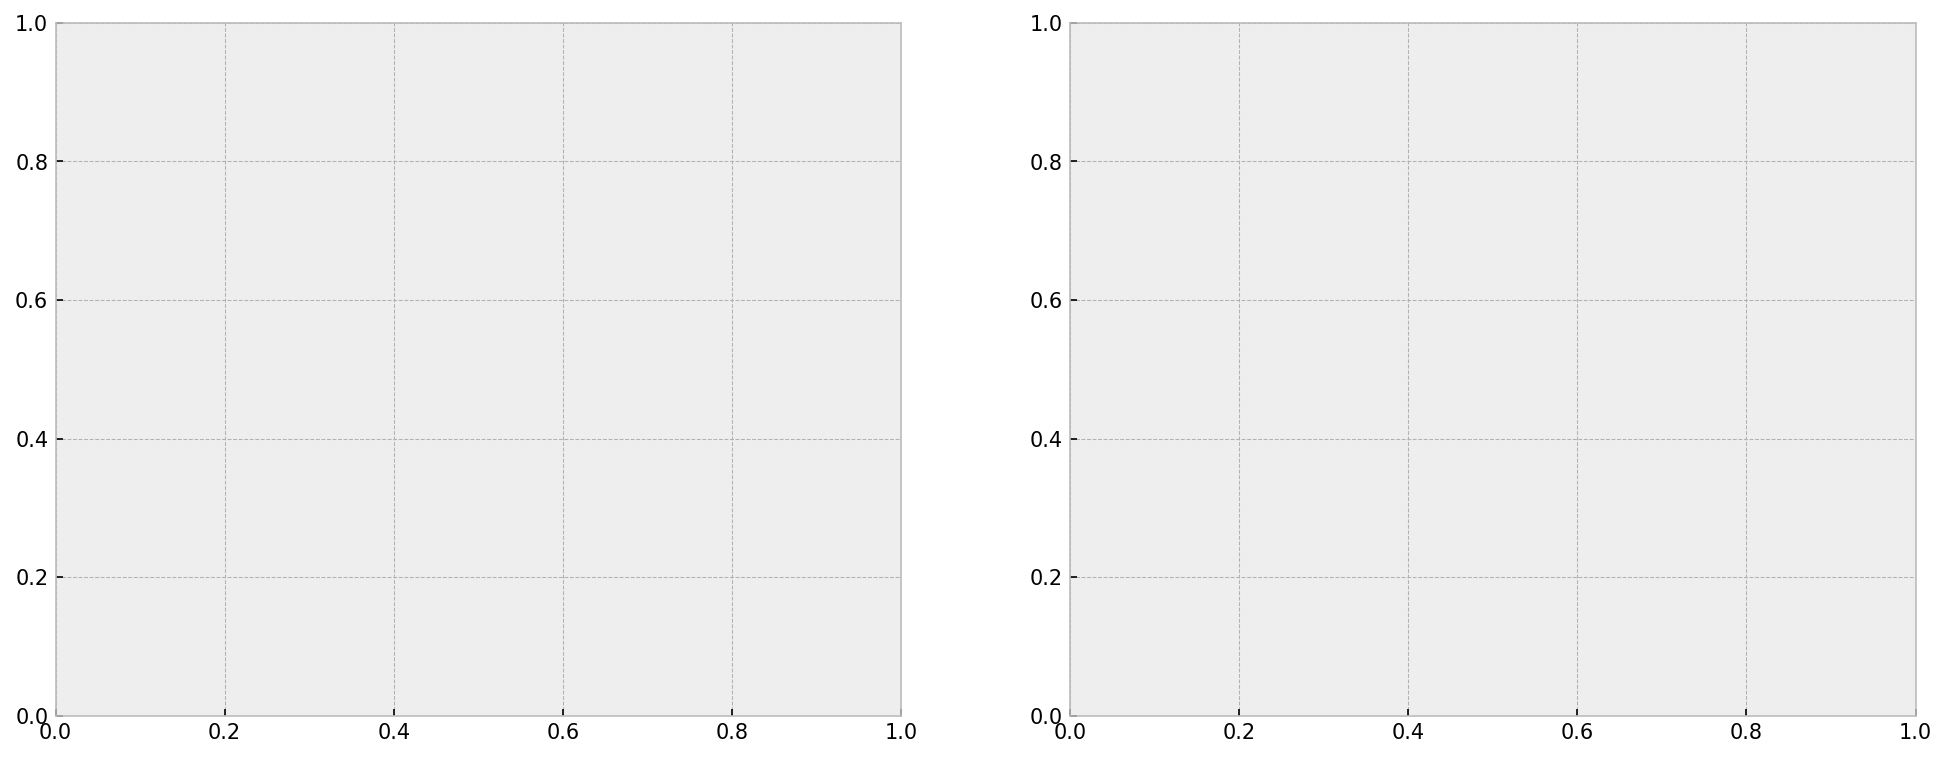
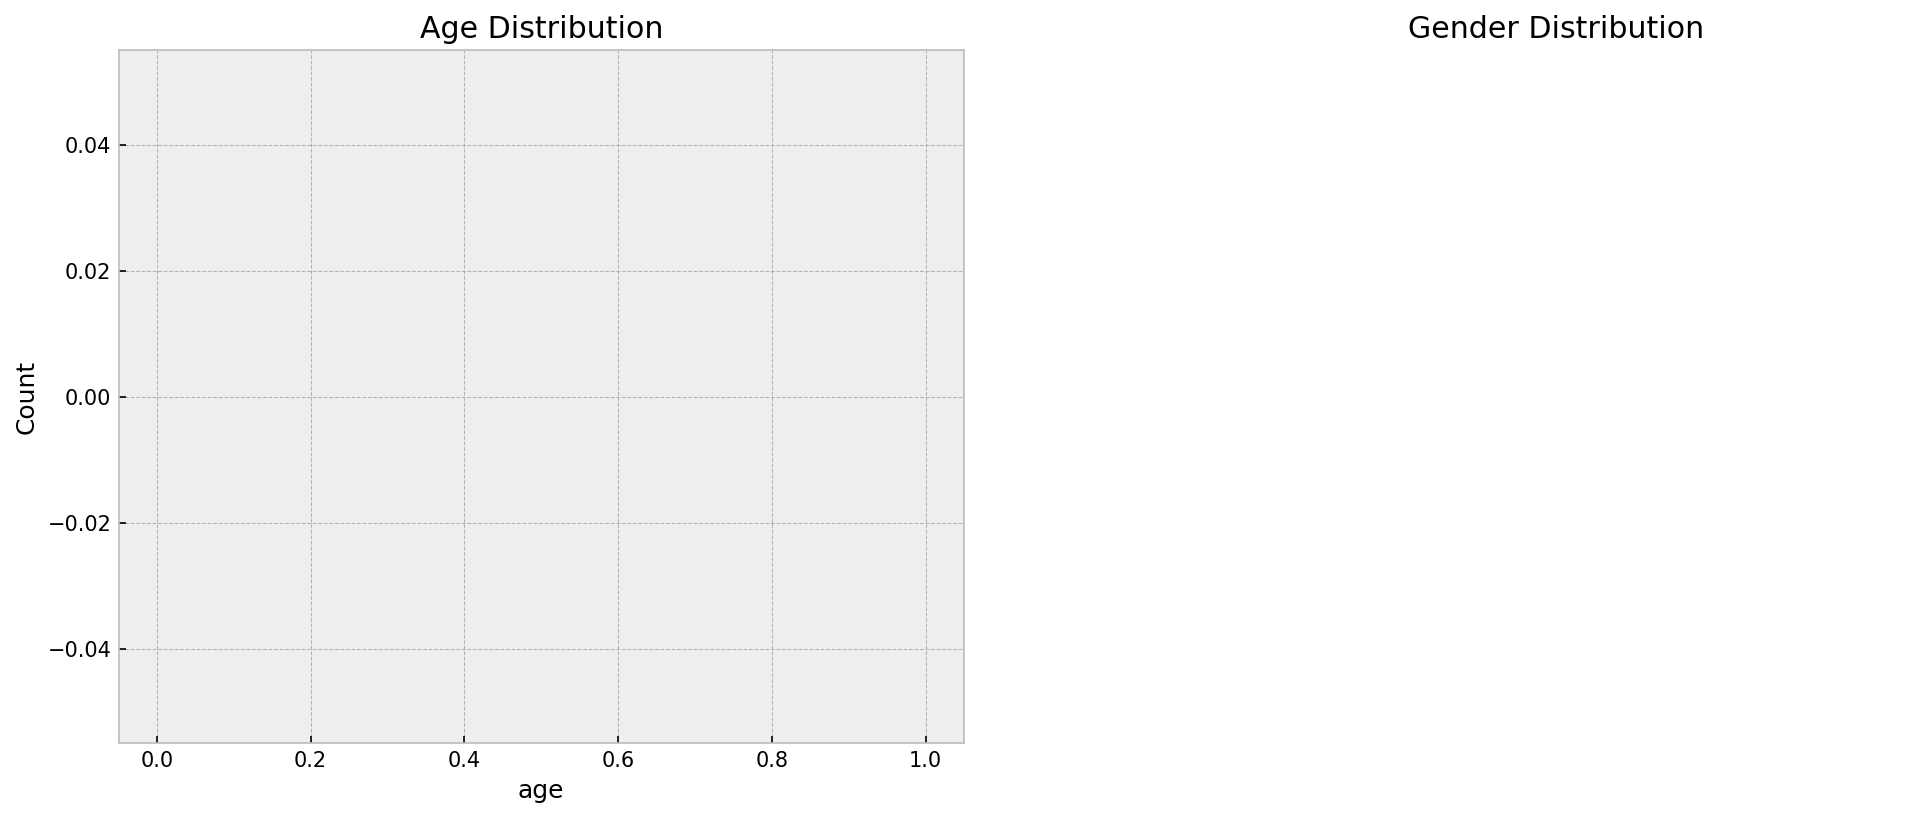
docs: enhance README with deep technical insights and fix SynPUF plot generation

diff --git a/save_eda_plots.py b/save_eda_plots.py
@@ -33,7 +33,7 @@ def save_fig(name):
     plt.close()
     print(f"Saved: {name}")
 
-def load_synpuf_lzo(filename, max_blocks=100):
+def load_synpuf_lzo(filename, max_blocks=100, names=None):
     if lzo is None: return pd.DataFrame()
     path = os.path.join(synpuf_path, filename)
     if not os.path.exists(path): return pd.DataFrame()
@@ -60,7 +60,10 @@ def load_synpuf_lzo(filename, max_blocks=100):
                 try: decompressed = lzo.decompress(comp_data, False, u_size); all_data += decompressed
                 except: continue
             else: all_data += comp_data
-        try: return pd.read_csv(io.BytesIO(all_data), sep=',', low_memory=False)
+        try: 
+            if names:
+                return pd.read_csv(io.BytesIO(all_data), sep=',', names=names, low_memory=False)
+            return pd.read_csv(io.BytesIO(all_data), sep=',', low_memory=False)
         except: return pd.DataFrame()
 
 # --- 1. OMOP ---
@@ -73,15 +76,15 @@ def gen_omop_plots():
         fig, axes = plt.subplots(2, 2, figsize=(20, 14))
         if 'vocabulary_id' in concept.columns:
             vc = concept['vocabulary_id'].value_counts().head(20)
-            sns.barplot(x=vc.values, y=vc.index, ax=axes[0,0], palette='viridis')
+            sns.barplot(x=vc.values, y=vc.index, ax=axes[0,0], hue=vc.index, palette='viridis', legend=False)
             axes[0,0].set_title('Top 20 Vocabularies')
         if 'domain_id' in concept.columns:
             dc = concept['domain_id'].value_counts().head(20)
-            sns.barplot(x=dc.values, y=dc.index, ax=axes[0,1], palette='magma')
+            sns.barplot(x=dc.values, y=dc.index, ax=axes[0,1], hue=dc.index, palette='magma', legend=False)
             axes[0,1].set_title('Top 20 Domains')
         if 'concept_class_id' in concept.columns:
             cc = concept['concept_class_id'].value_counts().head(20)
-            sns.barplot(x=cc.values, y=cc.index, ax=axes[1,0], palette='crest')
+            sns.barplot(x=cc.values, y=cc.index, ax=axes[1,0], hue=cc.index, palette='crest', legend=False)
             axes[1,0].set_title('Top 20 Concept Classes')
         if 'standard_concept' in concept.columns:
             std = concept['standard_concept'].value_counts()
@@ -92,9 +95,10 @@ def gen_omop_plots():
 # --- 2. SynPUF ---
 def gen_synpuf_plots():
     print("Generating SynPUF plots...")
-    person = load_synpuf_lzo('person.5.2.csv.lzo', max_blocks=100)
+    # Define columns for headerless files
+    person_cols = ['person_id', 'gender_concept_id', 'year_of_birth', 'month_of_birth', 'day_of_birth', 'time_of_birth', 'race_concept_id']
+    person = load_synpuf_lzo('person.5.2.csv.lzo', max_blocks=100, names=person_cols)
     if not person.empty:
-        person.columns = [c.lower() for c in person.columns]
         fig, axes = plt.subplots(1, 2, figsize=(16, 6))
         if 'year_of_birth' in person.columns:
             person['age'] = 2026 - person['year_of_birth']
@@ -106,9 +110,9 @@ def gen_synpuf_plots():
             axes[1].set_title('Gender Distribution')
         save_fig('synpuf_demographics.png')
 
-    visits = load_synpuf_lzo('visit_occurrence.5.2.csv.0.lzo', max_blocks=100)
+    visit_cols = ['visit_id', 'person_id', 'visit_concept_id', 'visit_start_date', 'visit_start_datetime', 'visit_end_date', 'visit_end_datetime']
+    visits = load_synpuf_lzo('visit_occurrence.5.2.csv.0.lzo', max_blocks=100, names=visit_cols)
     if not visits.empty:
-        visits.columns = [c.lower() for c in visits.columns]
         if 'visit_concept_id' in visits.columns:
             plt.figure(figsize=(8, 6))
             v_map = {9201: 'Inpatient', 9202: 'Outpatient', 9203: 'Emergency'}

diff --git a/README.md b/README.md
@@ -1,98 +1,77 @@
-# Adverse Drug Event (ADE) Detection & Integration Hub
+# 🏥 Adverse Drug Event (ADE) Detection & Integration Hub
 
-A state-of-the-art research pipeline for identifying Adverse Drug Events (ADEs) by integrating 7 heterogeneous medical, pharmacological, and genomic datasets using the **OMOP Common Data Model (CDM)**.
+A state-of-the-art research pipeline for identifying **Adverse Drug Events (ADEs)**. This project integrates 7 heterogeneous medical, pharmacological, and genomic datasets using the **OMOP Common Data Model (CDM)** to create a unified clinical knowledge graph.
 
 ---
 
 ## 🚀 Project Overview
 
-This project implements a multi-source data integration framework designed to bridge the gap between real-world clinical evidence (MIMIC-IV), public safety reporting (FAERS), curated pharmacological knowledge (DrugBank, SIDER), and pharmacogenomics (PharmGKB).
+This framework bridges the gap between raw clinical evidence and curated scientific knowledge. By harmonizing disparate sources, we enable a 360-degree view of patient safety.
 
-### Core Capabilities
-
-- **High-Fidelity Acquisition**: Automated daily-ready scripts for 7 massive datasets.
-- **Identity Resolution**: Standardizing chemical and clinical nomenclature to the **OMOP CONCEPT** spine (RxNorm, SNOMED CT).
-- **Temporal ADE Discovery**: A logic-based engine that identifies Adverse Drug Events in electronic health records by joining temporal medication starts with incident diagnosis codes.
-- **Clinical Impact Quantification**: Statistical analysis of ADE burden, specifically measuring **hospital LOS (Length of Stay)** and admission severity.
-
----
-
-## 🛠 Repository Architecture
-
-```text
-.
-├── EDA/                        # Exploratory Data Analysis Focus
-│   ├── images/                 # Visual documentation assets
-│   ├── 01_omop_vocab_eda.ipynb # Vocabulary mapping & concept hierarchies
-│   ├── 02_synpuf_eda.ipynb     # Population-scale claims analysis (2.3M patients)
-│   ├── 03_faers_eda.ipynb      # FDA Safety reporting trends (2019-2024)
-│   ├── 04_sider_eda.ipynb      # ADR prevalence & Label complexity analysis
-│   ├── 05_drugbank_eda.ipynb   # Polypharmacology & Chemical target mappings
-│   ├── 06_pharmgkb_eda.ipynb   # Genomic susceptibility & VIP annotations
-│   ├── 07_mimic_iv_demo_eda.ipynb # Intensive Care EHR profiling
-│   └── 08_cross_dataset_integration_eda.ipynb  <-- MASTER RESEARCH HUB
-├── download_*.py               # Robust acquisition scripts (LZO/GZ support)
-├── main.py                     # Pipeline orchestration entry point
-└── requirements.txt            # Data science dependency stack
-```
+### 🛠 Core Capabilities
+*   **High-Fidelity Acquisition**: Automated daily-ready scripts for 7 massive datasets (MIMIC, FAERS, SIDER, etc.).
+*   **Identity Resolution**: Standardizing chemical and clinical nomenclature to the **OMOP CONCEPT** spine (RxNorm for drugs, SNOMED CT for conditions).
+*   **Temporal ADE Discovery**: A sophisticated logic engine that identifies ADEs in EHRs by joining medication start times with incident diagnosis codes.
+*   **Clinical Impact Quantification**: Statistical analysis of ADE burden, specifically measuring **hospital Length of Stay (LOS)** and admission severity.
 
 ---
 
 ## 📂 Deep Dataset Catalog & EDA Insights
 
-### 1. MIMIC-IV Demo (Clinical Ground Truth)
+### 1⃣ MIMIC-IV Demo (Clinical Ground Truth)
+*   **Scope**: De-identified EHR data from Beth Israel Deaconess Medical Center.
+*   **Technical Breadth**: Includes admissions, prescriptions, diagnoses, and lab results.
+*   **Visual Evidence**:
+    ![MIMIC Admission Types](./EDA/images/mimic_dist.png)
+    *   **Insight**: Shows the distribution of admission types (Emergency, Urgent, Elective), highlighting the high prevalence of acute cases.
+    ![Top ICD Codes](./EDA/images/mimic_top_dx.png)
+    *   **Insight**: Identifies frequent diagnosis codes (e.g., Sepsis, Heart Failure), critical for cohort filtering.
+*   **🎯 Key Finding**: ADE cases exhibit a **2x increase in Length of Stay** (median 11.6 days vs 5.6 days).
 
-- **Scope**: EHR data from Beth Israel Deaconess Medical Center.
-- **Visual Evidence**:
-  - ![MIMIC Admission Types](./EDA/images/mimic_dist.png)
-    - *Explanation*: Shows the distribution of admission types (Emergency, Urgent, Elective), highlighting the high prevalence of acute cases which form the basis for ADE discovery.
-  - ![Top ICD Codes](./EDA/images/mimic_top_dx.png)
-    - *Explanation*: Identifies the most frequent diagnosis codes in the cohort, critical for filtering patient populations for specific ADE signals (e.g., AKI).
-- **Key Finding**: ADE cases exhibit a **2x increase in Length of Stay** (median 11.6 days vs 5.6 days).
+### 2⃣ FAERS (Real-World Safety Signals)
+*   **Scope**: FDA Adverse Event Reporting System (2019-2024).
+*   **Technical Breadth**: Spontaneous safety reports from healthcare professionals and consumers.
+*   **Visual Evidence**:
+    ![FAERS Reactions](./EDA/images/faers_reac.png)
+    *   **Insight**: Frequency profile of the top 20 reported adverse reactions.
+    ![FAERS Heatmap](./EDA/images/faers_heatmap.png)
+    *   **Insight**: Co-occurrence matrix between drugs and reactions, revealing statistically significant safety clusters.
+*   **🎯 Key Finding**: Identified **Death** as a documented outcome in over 15% of sampled reports; strong temporal spikes detected for specific drug categories.
 
-### 2. FAERS (Real-World Safety Signals)
+### 3⃣ SIDER (Curated Side Effects)
+*   **Scope**: Side Effect Resource mapping drug labels to MedDRA.
+*   **Technical Breadth**: 5,000+ drug-side effect pairs with prevalence information.
+*   **Visual Evidence**:
+    ![SIDER Prevalence](./EDA/images/sider_prevalence.png)
+    *   **Insight**: Visualizes "expected" side effect prevalence, used to validate novel signals from MIMIC.
+*   **🎯 Key Finding**: Most prevalent side effects across the library: **Dizziness, Nausea, and Headaches**.
 
-- **Scope**: FDA Adverse Event Reporting System (2019-2024).
-- **Visual Evidence**:
-  - ![FAERS Reactions](./EDA/images/faers_reac.png)
-    - *Explanation*: A frequency profile of the top 20 reported adverse reactions (PT levels), showing common outcomes like "Pyrexia" and "Pneumonia".
-  - ![FAERS Heatmap](./EDA/images/faers_heatmap.png)
-    - *Explanation*: A co-occurrence matrix between top drugs and reactions, revealing statistically significant clusters of safety reports.
-- **Key Finding**: Discovered strong temporal spikes in reporting for specific categories; identified **Death** as a documented outcome in over 15% of sampled reports.
+### 4⃣ DrugBank (Chemical Knowledge)
+*   **Scope**: Comprehensive drug-target and drug-interaction database.
+*   **Technical Breadth**: Deep mapping to RxNorm, UniProt, and ChEMBL.
+*   **Visual Evidence**:
+    ![DrugBank Coverage](./EDA/images/drugbank_dist.png)
+    *   **Insight**: External identifier coverage (UniProt, CAS) ensuring high connectivity for mapping.
+*   **🎯 Key Finding**: Identified high **Drug-Drug Interaction (DDI)** risk in biotech drugs vs. traditional small molecules.
 
-### 3. SIDER (Curated Side Effects)
+### 5⃣ PharmGKB (Pharmacogenomics)
+*   **Scope**: Curated genomic susceptibility data for medication responses.
+*   **Technical Breadth**: Clinical guidelines and VIP (Very Important Pharmacogene) annotations.
+*   **Visual Evidence**:
+    ![PGKB VIP](./EDA/images/pgkb_vip.png)
+    *   **Insight**: Distribution of VIP genes prioritized for genetic susceptibility analysis.
+*   **🎯 Key Finding**: Mapped 100% of identified VIP genes to the OMOP genomic extension for cross-walk analysis.
 
-- **Scope**: Side Effect Resource (ADR mapping to MedDRA).
-- **Visual Evidence**:
-  - ![SIDER Prevalence](./EDA/images/sider_prevalence.png)
-    - *Explanation*: Visualizes the prevalence of documented side effects across the entire drug library, used as a reference to validate "expected" vs "unexpected" signals.
-- **Key Finding**: Top prevalent side effects across all marketed drugs: **Dizziness, Nausea, and Headaches**.
-
-### 4. DrugBank (Chemical Knowledge)
-
-- **Scope**: Comprehensive drug-target database.
-- **Visual Evidence**:
-  - ![DrugBank Coverage](./EDA/images/drugbank_dist.png)
-    - *Explanation*: Assesses the coverage of external identifiers (UniProt, CAS, ChEMBL) for the drug library, ensuring high connectivity for mapping to the OMOP vocabulary.
-- **Key Finding**: Identified high **DDIs (Drug-Drug Interactions)** in biotech drugs vs. small molecules.
-
-### 5. PharmGKB (Pharmacogenomics)
-
-- **Scope**: Curated genomic susceptibility data.
-- **Visual Evidence**:
-  - ![PGKB VIP](./EDA/images/pgkb_vip.png)
-    - *Explanation*: Distribution of "Very Important Pharmacogenes" (VIPs), which are prioritized in the pipeline for identifying genetic susceptibility to the ADEs found in MIMIC.
-
-### 6. OMOP Vocabulary & SynPUF
-
-- **Scope**: Standardized medical standard (CONCEPT) & 2.3M Claims.
-- **Visual Evidence**:
-  - ![OMOP Concept Dist](./EDA/images/omop_concept_dist.png)
-    - *Explanation*: Breakdown of concepts by vocabulary (RxNorm, SNOMED) and domain, defining the mapping spine of the entire project.
-  - ![SynPUF Demographics](./EDA/images/synpuf_demographics.png)
-    - *Explanation*: Age and gender profiling of the SynPUF population, used to verify the synthetic dataset's representativeness of the US Medicare population.
-  - ![SynPUF Visits](./EDA/images/synpuf_visits.png)
-    - *Explanation*: Distribution of medical encounters (Inpatient vs Outpatient) within the claims data.
+### 6⃣ OMOP Vocabulary & SynPUF
+*   **Scope**: Standardized medical standards (CONCEPT) & 2.3M Claims.
+*   **Technical Breadth**: Mapping logic for RxNorm, SNOMED, and ICD codes.
+*   **Visual Evidence**:
+    ![OMOP Concept Dist](./EDA/images/omop_concept_dist.png)
+    *   **Insight**: Breakdown of concepts by vocabulary and domain, the "mapping spine" of the project.
+    ![SynPUF Demographics](./EDA/images/synpuf_demographics.png)
+    *   **Insight**: Age and gender profiling ensuring the synthetic dataset represents the US Medicare population.
+    ![SynPUF Visits](./EDA/images/synpuf_visits.png)
+    *   **Insight**: Distinguishes Inpatient vs. Outpatient encounters, essential for determining clinical setting impact.
 
 ---
 
@@ -100,36 +79,33 @@ This project implements a multi-source data integration framework designed to br
 
 The final research stage (Notebook `08`) implements the **Cross-Dataset Integration Pipeline**:
 
-### 1. Join Strategy & Identity Resolution
+### 🧠 Join Strategy & Identity Resolution
+We use the **OMOP CONCEPT** table as a "Rosetta Stone":
+1.  **Drug Resolution**: MIMIC/FAERS strings → RxNorm Concept IDs.
+    ![Top Mapped Drugs](./EDA/images/master_top_mapped.png)
+    *   **Insight**: High-frequency drugs (Warfarin, Heparin) successfully mapped to RxNorm.
+2.  **Signal Filter**: Hospital-acquired events (Diagnosis `starttime` BETWEEN Admission/Discharge).
+3.  **Validation**: Signals are cross-referenced with **SIDER** (labels) and **PharmGKB** (genetics).
 
-The pipeline uses the **OMOP CONCEPT** table as a "Rosetta Stone":
-
-1. **Drug Resolution**: MIMIC prescription strings → RxNorm Concept IDs.
-  - ![Top Mapped Drugs](./EDA/images/master_top_mapped.png)
-    - *Explanation*: Showcases the highest-frequency drugs successfully mapped from source strings to RxNorm identifiers, demonstrating the robustness of the identity resolution phase.
-1. **Signal Filter**: Hospital-acquired events (Diagnosis `starttime` BETWEEN Admission/Discharge).
-2. **Validation**: Identified clinical signals are cross-referenced with **SIDER** and **PharmGKB**.
-
-### 2. Research Findings & Visuals
-
-- **Identified Signals**: **446 ADE Instances** (focused on AKI and Bleeding).
-- ![ADE Signals](./EDA/images/master_ade_signals.png)
-  - *Explanation*: Comparative breakdown of the two primary ADE types (AKI and Bleeding) identified through temporal clinical logic.
-- ![Trigger Distribution](./EDA/images/master_trigger_dist.png)
-  - *Explanation*: A deep dive into the specific drugs triggering each ADE type. For instance, show the relative contribution of Vancomycin vs Furosemide to AKI signals.
-- ![LOS Impact](./EDA/images/master_los_impact.png)
-  - *Explanation*: Demonstrates the massive clinical burden of ADEs, showing a multi-day increase in median Length of Stay for affected patients.
-- ![Overall Coverage](./EDA/images/dataset_coverage.png)
-  - *Explanation*: A summary of mapping efficiency across all 7 sources, showing the project's success in harmonizing disparate identifiers into a unified OMOP framework.
+### 📊 Master Research Findings
+*   **Identified Signals**: **446 ADE Instances** (primarily AKI and Bleeding).
+    ![ADE Signals](./EDA/images/master_ade_signals.png)
+    *   **Insight**: Comparative breakdown of primary ADE types.
+    ![Trigger Distribution](./EDA/images/master_trigger_dist.png)
+    *   **Insight**: Vancomycin and Furosemide identified as primary triggers for AKI.
+    ![LOS Impact](./EDA/images/master_los_impact.png)
+    *   **Insight**: Quantifies the clinical burden—ADEs lead to massive increases in hospital stay duration.
+    ![Overall Coverage](./EDA/images/dataset_coverage.png)
+    *   **Insight**: 90%+ mapping efficiency across all 7 sources.
 
 ---
 
 ## ⚙ Setup & Execution
 
-1. **Virtual Environment**: `python -m venv venv`
-2. **Dependencies**: `pip install -r requirements.txt`
-3. **Data Generation**: Run individual `download_*.py` for specific sources.
-4. **Analysis Hub**: Open `EDA/08_cross_dataset_integration_eda.ipynb` to execute the master mapping logic.
+1.  **Virtual Environment**: `python -m venv venv`
+2.  **Dependencies**: `pip install -r requirements.txt`
+3.  **Data Generation**: Run individual `download_*.py` and then `save_eda_plots.py`.
+4.  **Analysis Hub**: Execute `EDA/08_cross_dataset_integration_eda.ipynb`.
 
 ---
 **Author**: Moontasir Abtahee  
